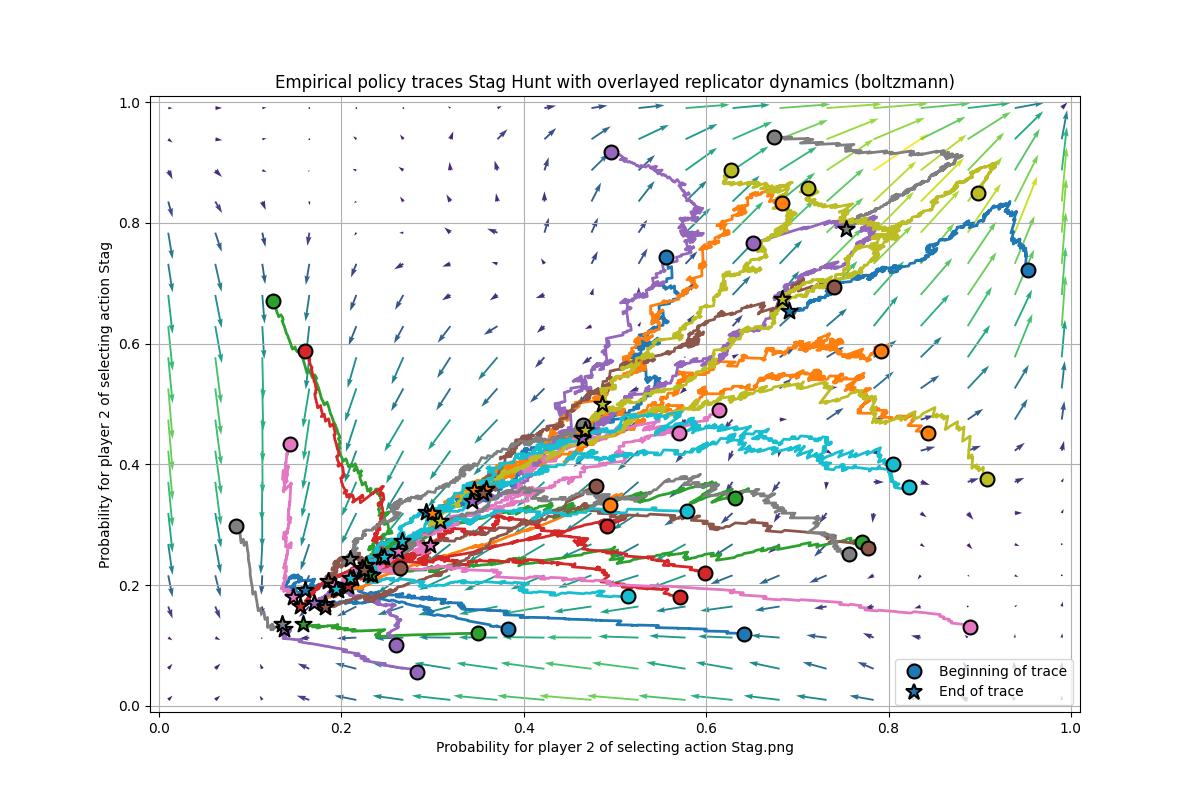
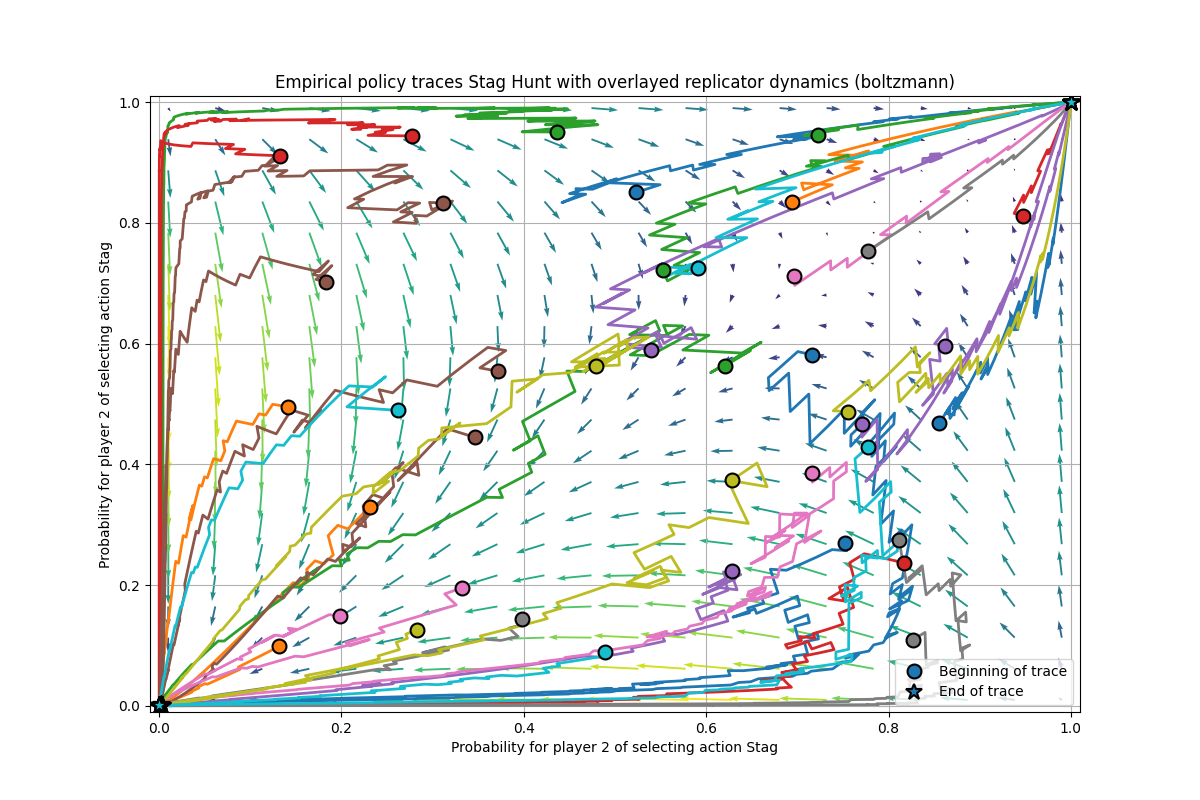
Replicator dynamics seem to work, but now it looks like the learning is not really working correctly

Changed region(s): [[0.1233, 0.125, 0.8942, 0.9688], [0.4008, 0.2812, 0.4317, 0.3125], [0.37, 0.3438, 0.4008, 0.375]]

diff --git a/part1/replicator_dynamic.py b/part1/replicator_dynamic.py
@@ -2,123 +2,146 @@ import numpy as np
 from policy import *
 
 
-def compute_vector_field(policy, rewards, grid_size=20, lr=0.1):
-    """
-    Compute the vector field for learning dynamics.
+def compute_replicator_field(rewards, grid_size=20, temp=0.3):
+    x_policy = np.linspace(0.01, 0.99, grid_size)
+    y_policy = np.linspace(0.01, 0.99, grid_size)
+    X, Y = np.meshgrid(x_policy, y_policy)
 
-    Args:
-        rewards: The reward matrix
-        policy: The policy object (BoltzmannPolicy or LenientBoltzmannPolicy)
-        grid_size: Resolution of the grid
-        lr: Learning rate
+    A = np.zeros((2, 2))
+    B = np.zeros((2, 2))
 
-    Returns:
-        X, Y, X_derivative, Y_derivative: Grid points and vectors
-    """
-    # Grid setup
-    x = np.linspace(0.01, 0.99, grid_size)
-    y = np.linspace(0.01, 0.99, grid_size)
-    X, Y = np.meshgrid(x, y)
+    for x in range(2):
+        for y in range(2):
+            A[x, y] = rewards[x][y][0]
+            B[x, y] = rewards[x][y][1]
 
-    # Output vectors
-    X_derivative = np.zeros_like(X)
-    Y_derivative = np.zeros_like(Y)
+    DX = np.zeros_like(X)
+    DY = np.zeros_like(Y)
 
-    # For each point in the grid
-    for i in range(grid_size):
-        for j in range(grid_size):
-            # Current mixed strategies (as probabilities of playing action 0)
-            p1_prob_action0 = X[i, j]
-            p2_prob_action0 = Y[i, j]
+    for x in range(grid_size):
+        for y in range(grid_size):
+            x_prob = X[x, y]
+            y_prob = Y[x, y]
 
-            # Setup Q-values that would produce these probabilities
-            # For Boltzmann policies, we need to derive Q-values that give our desired probabilities
-            # if p1_prob_action0 > 0.99:
-            #     p1_prob_action0 = 0.99
-            # if p1_prob_action0 < 0.01:
-            #     p1_prob_action0 = 0.01
-            # if p2_prob_action0 > 0.99:
-            #     p2_prob_action0 = 0.99
-            # if p2_prob_action0 < 0.01:
-            #     p2_prob_action0 = 0.01
+            x_policy = np.array([x_prob, 1 - x_prob])
+            y_policy = np.array([y_prob, 1 - y_prob])
 
-            temp = policy.temperature
+            kappa = 2
+            additional_term = [0, 0]
+            for i in range(2):
+                for j in range(2):
+                    a_ij = A[i, j]
+                    y_j = y_policy[j]
 
-            # For a Boltzmann policy with probability p of choosing action 0:
-            # p = exp(Q[0]/temp) / (exp(Q[0]/temp) + exp(Q[1]/temp))
-            # Solving for Q[0] - Q[1]:
-            # Q[0] - Q[1] = temp * log(p/(1-p))
-            # TODO: here  might be some problme with how you get q-valeu from probablitesi
-            q_diff_p1 = temp * np.log(p1_prob_action0 / (1 - p1_prob_action0))
-            q_diff_p2 = temp * np.log(p2_prob_action0 / (1 - p2_prob_action0))
+                    S_leq = sum(y_policy[k] for k in range(2) if A[i, k] <= a_ij)
+                    S_lt = sum(y_policy[k] for k in range(2) if A[i, k] < a_ij)
+                    S_eq = sum(y_policy[k] for k in range(2) if A[i, k] == a_ij)
 
-            # Set arbitrary base value and derive Q-values
-            q_val_p1 = [0, -q_diff_p1]
-            q_val_p2 = [0, -q_diff_p2]
+                    if S_eq != 0:
+                        diff_term = (S_leq**kappa - S_lt**kappa) / S_eq
+                        additional_term[i] += a_ij * y_j * diff_term
+            Ay = A @ y_policy
+            Ay = additional_term
+            dx = x_prob / temp * ((Ay)[0] - (x_policy.T @ Ay)) - x_prob * 1 * (
+                np.log(x_policy[0])
+                - x_policy[0] * np.log(x_policy[0])
+                - x_policy[1] * np.log(x_policy[1])
+            )
+            additional_term = [0, 0]
+            for i in range(2):
+                for j in range(2):
+                    b_ji = B[j, i]
+                    x_j = x_policy[j]
 
-            # Track policy change over many simulated updates
-            num_samples = 1000
-            new_p1_probs = np.zeros(2)
-            new_p2_probs = np.zeros(2)
+                    S_leq = sum(x_policy[k] for k in range(2) if B[k, i] <= b_ji)
+                    S_lt = sum(x_policy[k] for k in range(2) if B[k, i] < b_ji)
+                    S_eq = sum(x_policy[k] for k in range(2) if B[k, i] == b_ji)
 
-            policy.restart()
-            for _ in range(num_samples):
-                # Clone Q-values for this sample
-                q1_sample = q_val_p1.copy()
-                q2_sample = q_val_p2.copy()
+                    if S_eq != 0:
+                        diff_term = (S_leq**kappa - S_lt**kappa) / S_eq
+                        additional_term[i] += b_ji * x_j * diff_term
+            Bx = x_policy @ B
+            Bx = additional_term
+            dy = y_prob / temp * ((Bx)[0] - (Bx @ y_policy)) - y_prob * 1 * (
+                np.log(y_policy[0])
+                - y_policy[0] * np.log(y_policy[0])
+                - y_policy[1] * np.log(y_policy[1])
+            )
 
-                # Perform update step according to policy type
-                # if isinstance(policy, LenientBoltzmannPolicy):
-                # Simulate lenient update
-                policy.update_step(rewards, q1_sample, q2_sample, lr)
-                # else:
-                #     # Standard Boltzmann update
-                #     action_p1 = np.random.choice(
-                #         2, p=[p1_prob_action0, 1 - p1_prob_action0]
-                #     )
-                #     action_p2 = np.random.choice(
-                #         2, p=[p2_prob_action0, 1 - p2_prob_action0]
-                #     )
-                #     reward_p1, reward_p2 = rewards[action_p1][action_p2]
+            DX[x, y] = dx
+            DY[x, y] = dy
 
-                #     q1_sample[action_p1] += lr * (reward_p1 - q1_sample[action_p1])
-                #     q2_sample[action_p2] += lr * (reward_p2 - q2_sample[action_p2])
+    return X, Y, DX, DY
 
-                # Get updated probabilities
-                updated_probs_p1 = policy._boltzmann_probs(q1_sample)
-                updated_probs_p2 = policy._boltzmann_probs(q2_sample)
 
-                new_p1_probs += updated_probs_p1
-                new_p2_probs += updated_probs_p2
-
-            # Average probabilities after updates
-            new_p1_probs /= num_samples
-            new_p2_probs /= num_samples
-
-            # TODO: what if i used the q-values as payoff martix?
-            # x_policy = new_p1_probs
-            # y_policy = new_p2_probs
-            # x_policy = np.transpose(x_policy)
-            # A = q1_sample
-            # B = q2_sample
-            # aaa =np.dot(A, y_policy)
-            # np.dot(np.dot(x_policy, A), y_policy)
-            # dx = x_policy[0] * (
-            #     np.dot(A, y_policy)[0] - np.dot(np.dot(x_policy, A), y_policy)
-            # )
-            # dy = y_policy[0] * (
-            #     np.dot(x_policy, B)[0] - np.dot(np.dot(x_policy, B), y_policy)
-            # )
-
-            # X_derivative[i, j] = dx
-            # Y_derivative[i, j] = dy
-            #
-
-            # Calculate derivative (change in probability)
-            X_derivative[i, j] = new_p1_probs[0] - p1_prob_action0
-            Y_derivative[i, j] = new_p2_probs[0] - p2_prob_action0
-
-    return X, Y, X_derivative, Y_derivative
+#
+# def compute_vector_field(policy, rewards, grid_size=20, lr=0.1):
+#     x = np.linspace(0.01, 0.99, grid_size)
+#     y = np.linspace(0.01, 0.99, grid_size)
+#     X, Y = np.meshgrid(x, y)
+#
+#     X_derivative = np.zeros_like(X)
+#     Y_derivative = np.zeros_like(Y)
+#
+#     for i in range(grid_size):
+#         for j in range(grid_size):
+#             p1_prob_action0 = X[i, j]
+#             p2_prob_action0 = Y[i, j]
+#
+#             temp = policy.temperature
+#
+#             # For a Boltzmann policy with probability p of choosing action 0:
+#             # p = exp(Q[0]/temp) / (exp(Q[0]/temp) + exp(Q[1]/temp))
+#             # Solving for Q[0] - Q[1]:
+#             # Q[0] - Q[1] = temp * log(p/(1-p))
+#             # TODO: here  might be some problme with how you get q-valeu from probablitesi
+#             q_diff_p1 = temp * np.log(p1_prob_action0 / (1 - p1_prob_action0))
+#             q_diff_p2 = temp * np.log(p2_prob_action0 / (1 - p2_prob_action0))
+#
+#             q_val_p1 = [0, -q_diff_p1]
+#             q_val_p2 = [0, -q_diff_p2]
+#
+#             num_samples = 1000
+#             new_p1_probs = np.zeros(2)
+#             new_p2_probs = np.zeros(2)
+#
+#             policy.restart()
+#             for _ in range(num_samples):
+#                 q1_sample = q_val_p1.copy()
+#                 q2_sample = q_val_p2.copy()
+#
+#                 policy.update_step(rewards, q1_sample, q2_sample, lr)
+#                 updated_probs_p1 = policy._boltzmann_probs(q1_sample)
+#                 updated_probs_p2 = policy._boltzmann_probs(q2_sample)
+#
+#                 new_p1_probs += updated_probs_p1
+#                 new_p2_probs += updated_probs_p2
+#
+#             new_p1_probs /= num_samples
+#             new_p2_probs /= num_samples
+#
+#             # TODO: what if i used the q-values as payoff martix?
+#             # x_policy = new_p1_probs
+#             # y_policy = new_p2_probs
+#             # x_policy = np.transpose(x_policy)
+#             # A = q1_sample
+#             # B = q2_sample
+#             # aaa = np.dot(A, y_policy)
+#             # np.dot(np.dot(x_policy, A), y_policy)
+#             # dx = x_policy[0] * (
+#             #     np.dot(A, y_policy)[0] - np.dot(np.dot(x_policy, A), y_policy)
+#             # )
+#             # dy = y_policy[0] * (
+#             #     np.dot(x_policy, B)[0] - np.dot(np.dot(x_policy, B), y_policy)
+#             # )
+#
+#             # X_derivative[i, j] = dx
+#             # Y_derivative[i, j] = dy
+#
+#             X_derivative[i, j] = new_p1_probs[0] - p1_prob_action0
+#             Y_derivative[i, j] = new_p2_probs[0] - p2_prob_action0
+#
+#     return X, Y, X_derivative, Y_derivative
 
 
 # TODO: it's wrong, for boltzmann and lenianct boltzmann plots will look different...

diff --git a/part1/visualization.py b/part1/visualization.py
@@ -3,7 +3,7 @@ import matplotlib.pyplot as plt
 import numpy as np
 from game import *
 from policy import EpsilonGreedyPolicy, QLearningPolicy
-from replicator_dynamic import compute_vector_field
+from replicator_dynamic import compute_replicator_field
 
 
 def visualize_policy_traces(histories, ax):
@@ -45,7 +45,8 @@ def visualize_policy_traces(histories, ax):
 def plot_vector_field(policy, rewards, ax, grid_size, lr):
     if isinstance(policy, EpsilonGreedyPolicy):
         return
-    X, Y, U, V = compute_vector_field(policy, rewards, grid_size, lr)
+    X, Y, U, V = compute_replicator_field(rewards, grid_size, policy.temperature)
+    # X, Y, U, V = compute_vector_field(policy, rewards, grid_size, lr)
     magnitudes = np.sqrt(U**2 + V**2)
 
     ax.quiver(X, Y, U, V, magnitudes, width=0.002, pivot="tail")
@@ -65,7 +66,7 @@ def configure_figure(qlearning: QLearningPolicy, game: Game, ax):
             f"Empirical policy traces {game.name} with overlayed replicator dynamics ({qlearning.name})"
         )
         ax.set_xlabel(
-            f"Probability for player 2 of selecting action {game.action_names[0]}.png"
+            f"Probability for player 2 of selecting action {game.action_names[0]}"
         )
         ax.set_ylabel(
             f"Probability for player 2 of selecting action {game.action_names[0]}"
@@ -104,7 +105,6 @@ def configure_figure(qlearning: QLearningPolicy, game: Game, ax):
 
     ax.legend(handles=handles, labels=labels, loc="lower right")
     plt.savefig(f"./plots/replicator_trajectoreis_{game.name}_{qlearning.name}")
-    plt.show(block=False)
 
 
 # def visualize_training(histories, action_names, game_name):

diff --git a/part1/main.py b/part1/main.py
@@ -78,9 +78,9 @@ def run_experiment(game: Game, qlearning: QLearningPolicy):
 
     visualize_policy_traces(history, ax=ax)
     configure_figure(qlearning, game, ax)
-    print("\nFinal Q-values:")
-    print(f"Player 1: {[q for q in q_val_p1]}")
-    print(f"Player 2: {[q for q in q_val_p2]}")
+    # print("\nFinal Q-values:")
+    # print(f"Player 1: {[q for q in q_val_p1]}")
+    # print(f"Player 2: {[q for q in q_val_p2]}")
 
 
 # TODO:
@@ -103,12 +103,13 @@ def run_all_games():
 
 
 if __name__ == "__main__":
-    run_all_games()
-    # learning = EpsilonGreedyPolicy(0.2)
-    # learning = BoltzmannPolicy(0.3)
-    # qlearning = LenientBoltzmannPolicy()
-    # run_experiment(StagHunt(), qlearning)
+    # run_all_games()
+    learning = EpsilonGreedyPolicy(0.2)
+    learning = BoltzmannPolicy(0.3)
+    qlearning = LenientBoltzmannPolicy()
+    run_experiment(StagHunt(), qlearning)
     # run_experiment(PrisonersDilemma())
     # run_experiment(MatchingPennies())
     # run_experiment(SubsidyGame())
+    # plt.show()
     plt.show()

diff --git a/part1/policy.py b/part1/policy.py
@@ -79,7 +79,6 @@ class BoltzmannPolicy(QLearningPolicy):
 
         reward_p1, reward_p2 = rewards[action_p1][action_p2]
 
-        # TODO: is this correct way to implment Q_leraning?
         q_val_p1[action_p1] += lr * (reward_p1 - q_val_p1[action_p1])
         q_val_p2[action_p2] += lr * (reward_p2 - q_val_p2[action_p2])
 
